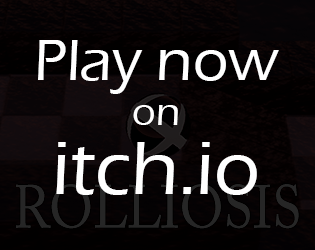
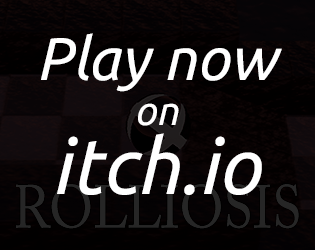
font update

diff --git a/src/app.css b/src/app.css
@@ -1,77 +1,80 @@
+@import '@fontsource/ubuntu';
+
 @tailwind base;
 @tailwind components;
 @tailwind utilities;
- 
+
 @layer base {
   :root {
     --background: 0 0% 100%;
     --foreground: 222.2 84% 4.9%;
- 
+
     --muted: 210 40% 96.1%;
     --muted-foreground: 215.4 16.3% 46.9%;
- 
+
     --popover: 0 0% 100%;
     --popover-foreground: 222.2 84% 4.9%;
- 
+
     --card: 0 0% 100%;
     --card-foreground: 222.2 84% 4.9%;
- 
+
     --border: 214.3 31.8% 91.4%;
     --input: 214.3 31.8% 91.4%;
- 
+
     --primary: 222.2 47.4% 11.2%;
     --primary-foreground: 210 40% 98%;
- 
+
     --secondary: 210 40% 96.1%;
     --secondary-foreground: 222.2 47.4% 11.2%;
- 
+
     --accent: 210 40% 96.1%;
     --accent-foreground: 222.2 47.4% 11.2%;
- 
+
     --destructive: 0 72.2% 50.6%;
     --destructive-foreground: 210 40% 98%;
- 
+
     --ring: 222.2 84% 4.9%;
- 
+
     --radius: 0.5rem;
   }
- 
+
   .dark {
     --background: 222.2 84% 4.9%;
     --foreground: 210 40% 98%;
- 
+
     --muted: 217.2 32.6% 17.5%;
     --muted-foreground: 215 20.2% 65.1%;
- 
+
     --popover: 222.2 84% 4.9%;
     --popover-foreground: 210 40% 98%;
- 
+
     --card: 222.2 84% 4.9%;
     --card-foreground: 210 40% 98%;
- 
+
     --border: 217.2 32.6% 17.5%;
     --input: 217.2 32.6% 17.5%;
- 
+
     --primary: 210 40% 98%;
     --primary-foreground: 222.2 47.4% 11.2%;
- 
+
     --secondary: 217.2 32.6% 17.5%;
     --secondary-foreground: 210 40% 98%;
- 
+
     --accent: 217.2 32.6% 17.5%;
     --accent-foreground: 210 40% 98%;
- 
+
     --destructive: 0 62.8% 30.6%;
     --destructive-foreground: 210 40% 98%;
- 
-    --ring: hsl(212.7,26.8%,83.9);
+
+    --ring: hsl(212.7, 26.8%, 83.9);
   }
 }
- 
+
 @layer base {
   * {
     @apply border-border;
   }
+
   body {
     @apply bg-background text-foreground;
   }

diff --git a/tailwind.config.js b/tailwind.config.js
@@ -55,7 +55,7 @@ const config = {
 				sm: "calc(var(--radius) - 4px)"
 			},
 			fontFamily: {
-				sans: [...fontFamily.sans]
+				sans: ['Ubuntu', ...fontFamily.sans]
 			}
 		}
 	},
